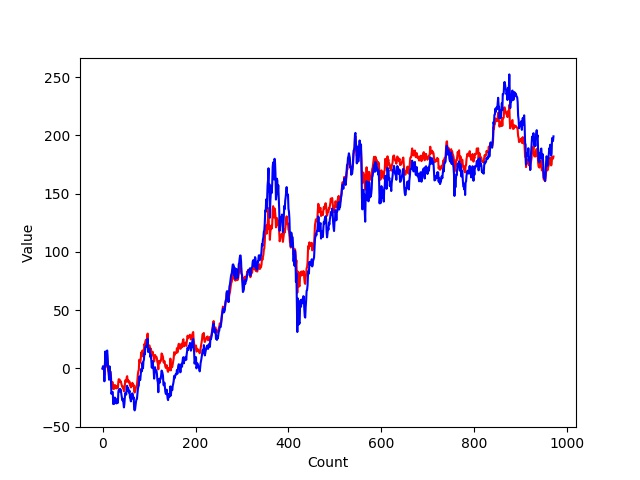
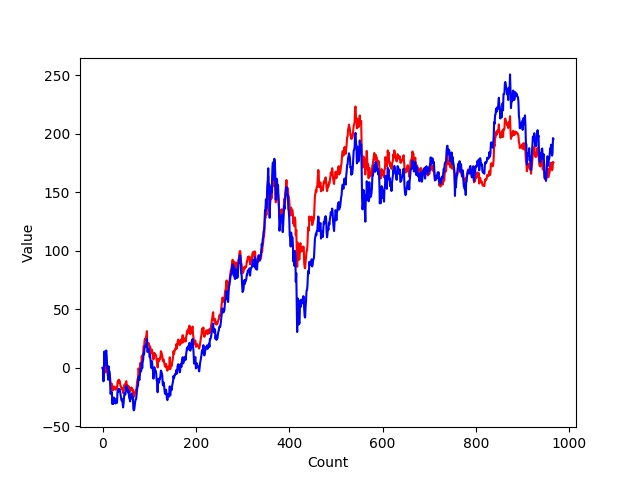
Automated Commision

diff --git a/momentum/momentum.py b/momentum/momentum.py
@@ -41,5 +41,5 @@ def momentum_investing(stock, principal, evaluate_range, evaluate_period):
 if __name__ == "__main__":
     csv, id = download_stock()
     stock = upload(csv, 5, True)
-    momentum_investing(stock, 100000000, 7, 1)
+    momentum_investing(stock, 100000000, 9, 1)
     git_update()
